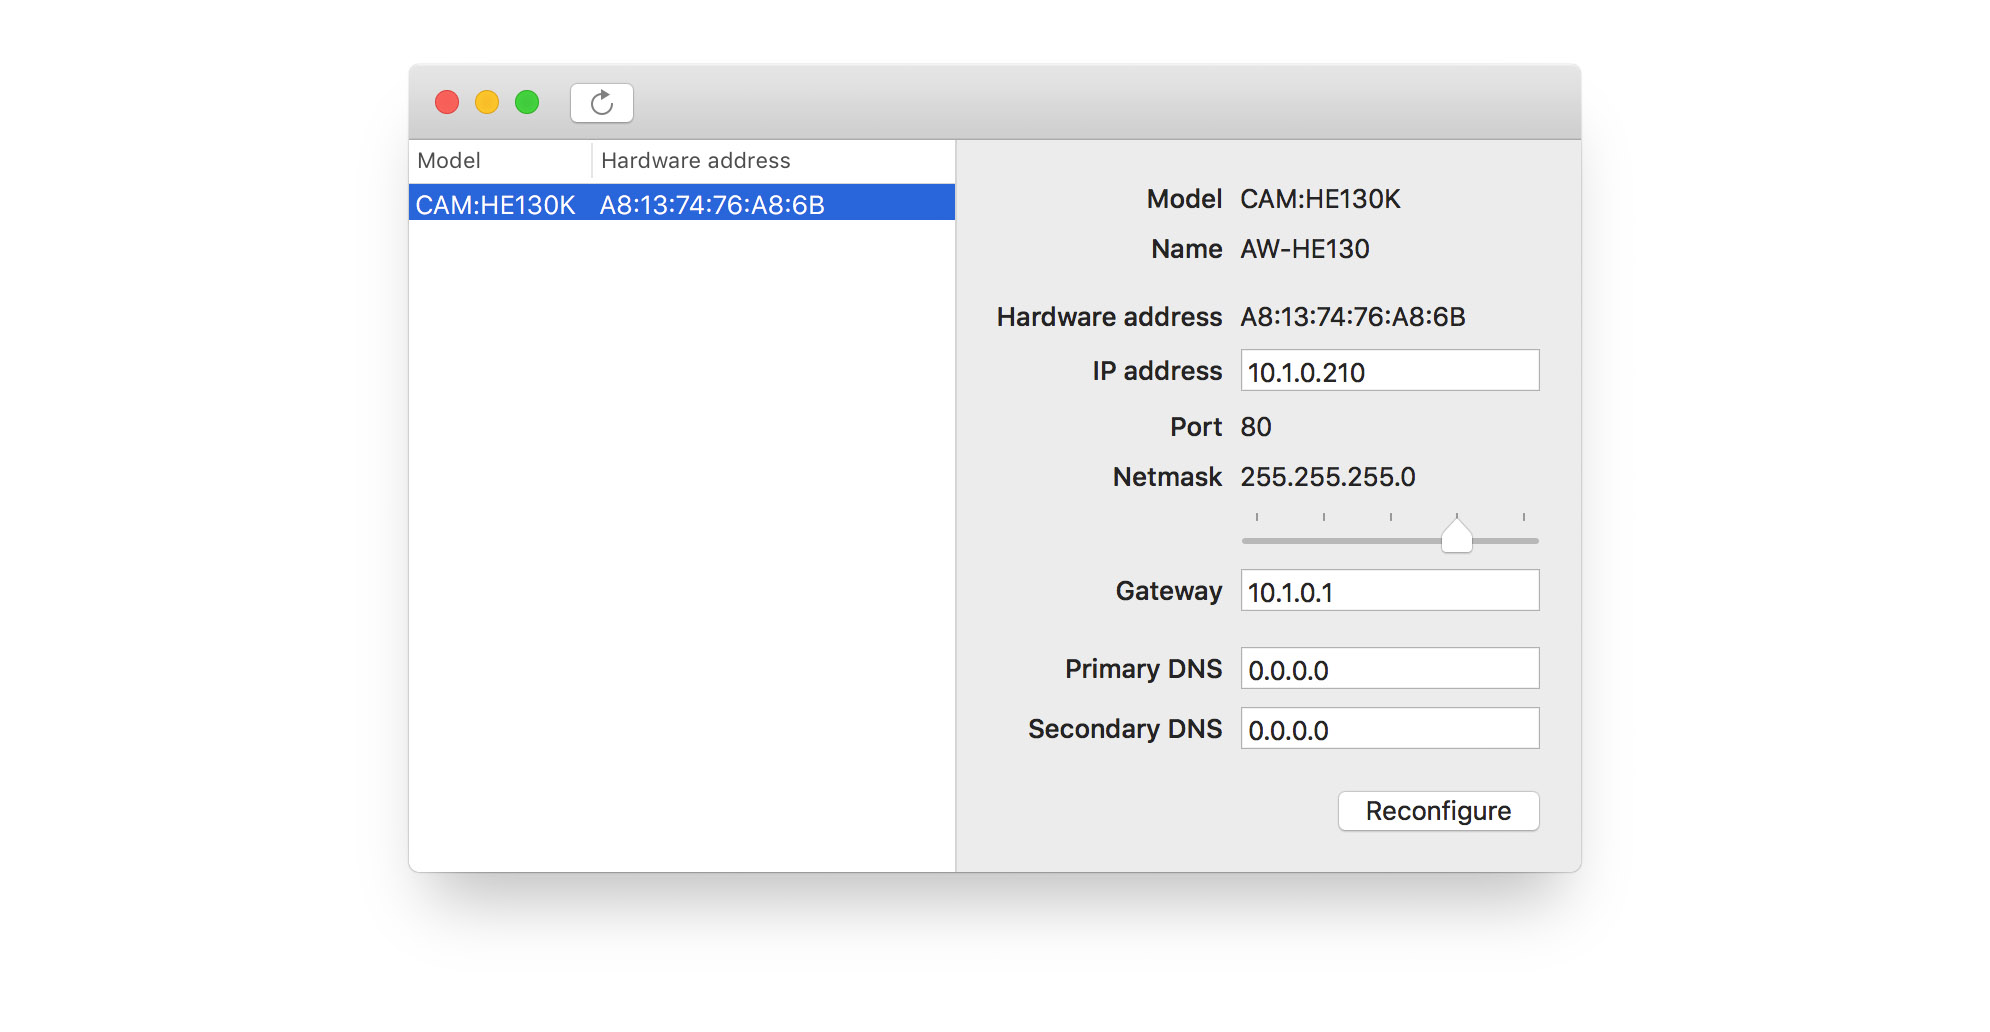
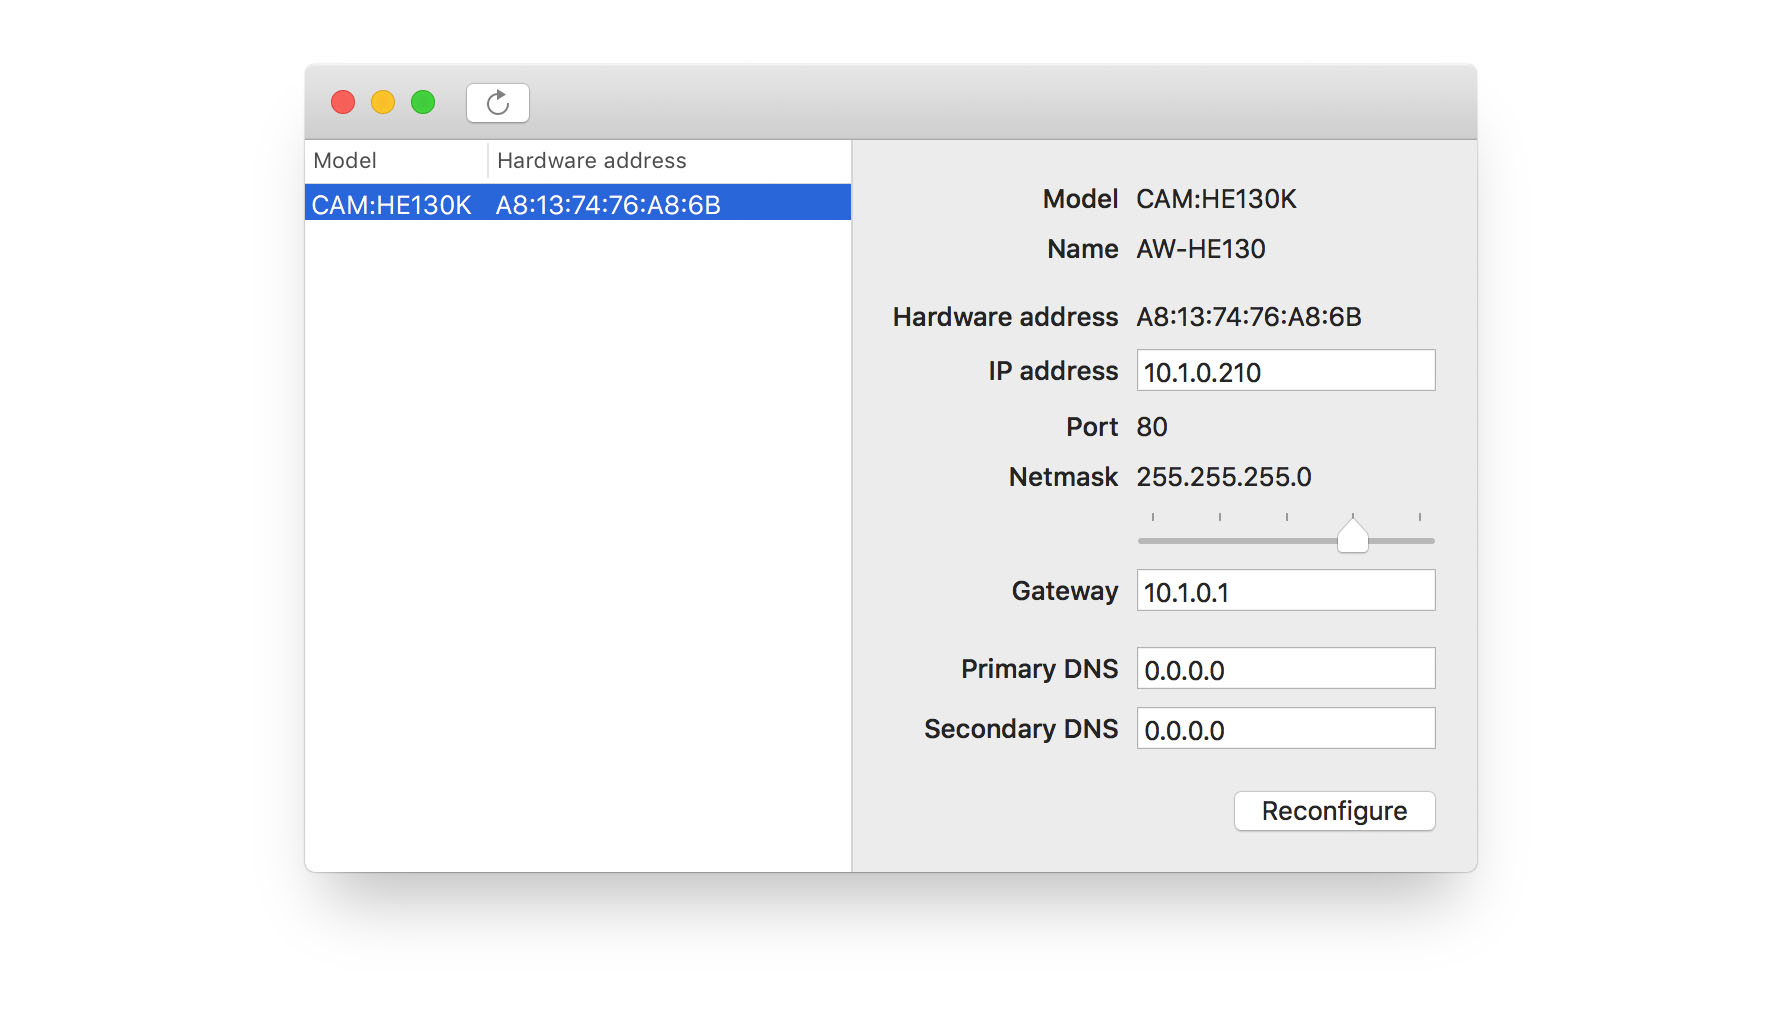
Resize image and edit readme

diff --git a/Readme.md b/Readme.md
@@ -1,4 +1,4 @@
-# Panasonic-IP-setup
-macOS application to configure Panasonic camera network settings. Alternative to the windows only Easy IP Setup Tool.
+# Panasonic IP setup
+macOS application to discover and configure network settings of Panasonic cameras. Alternative to the *windows only* Easy IP Setup Tool.
 
 ![Screenshot of the application](Graphics/Screenshot.jpg)
